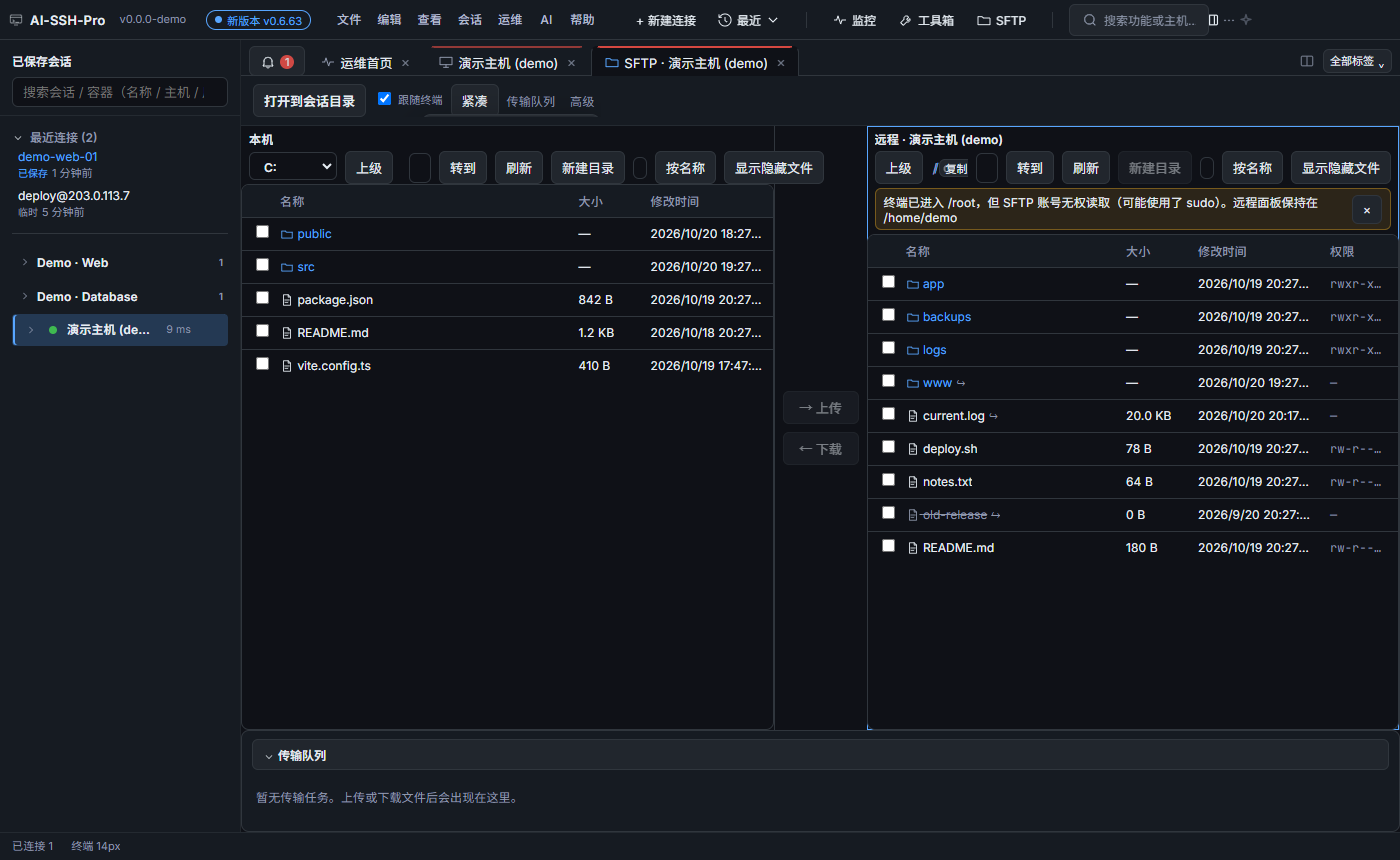
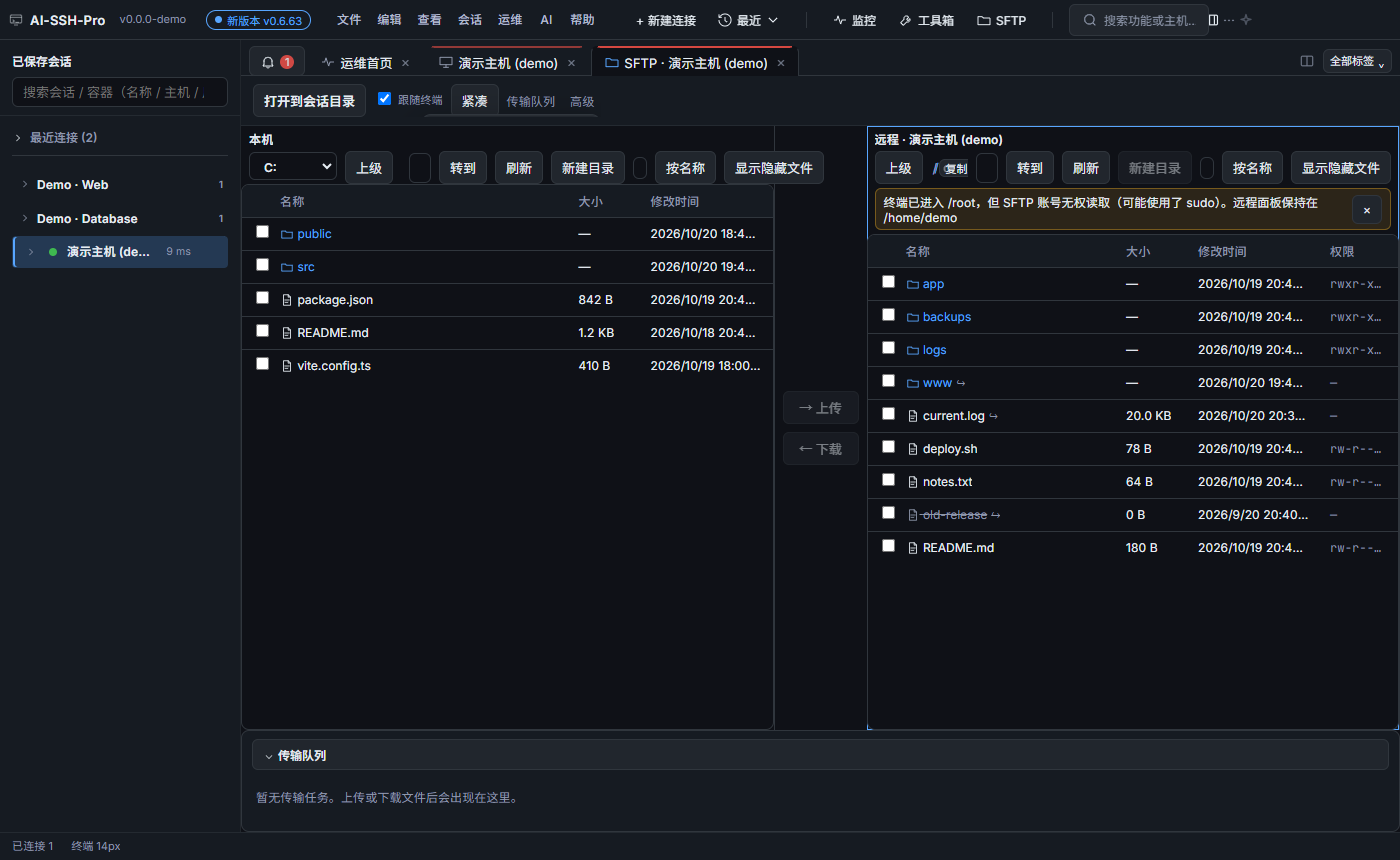
fix(sftp): link mark via CSS (no glyph in TSX); refresh c11 shots

Changed region(s): [[0.0, 0.1814, 0.1843, 0.4233], [0.5221, 0.3023, 0.5529, 0.393], [0.5221, 0.4233, 0.5529, 0.4535]]

diff --git a/src/renderer/src/components/SftpPanel.tsx b/src/renderer/src/components/SftpPanel.tsx
@@ -1629,7 +1629,6 @@ export default function SftpPanel({
                       >
                         {e.isDirectory ? <Icon name="folder" size={14} /> : <Icon name="file-text" size={14} />}{' '}
                         {e.name}
-                        {e.link ? <span className="sftp-link-mark" aria-hidden="true">↪</span> : null}
                       </button>
                     </td>
                     <td>{e.isDirectory ? '—' : formatBytes(e.size)}</td>

diff --git a/src/renderer/src/styles-m2.css b/src/renderer/src/styles-m2.css
@@ -228,6 +228,6 @@
 
 
 /* D12b */
-.sftp-link-mark { margin-left: 4px; color: var(--muted); font-size: 11px; }
+.sftp-name-btn.is-link::after { content: '\21AA'; margin-left: 4px; color: var(--muted); font-size: 11px; }
 .sftp-name-btn.is-broken { color: var(--muted); text-decoration: line-through; }
 
